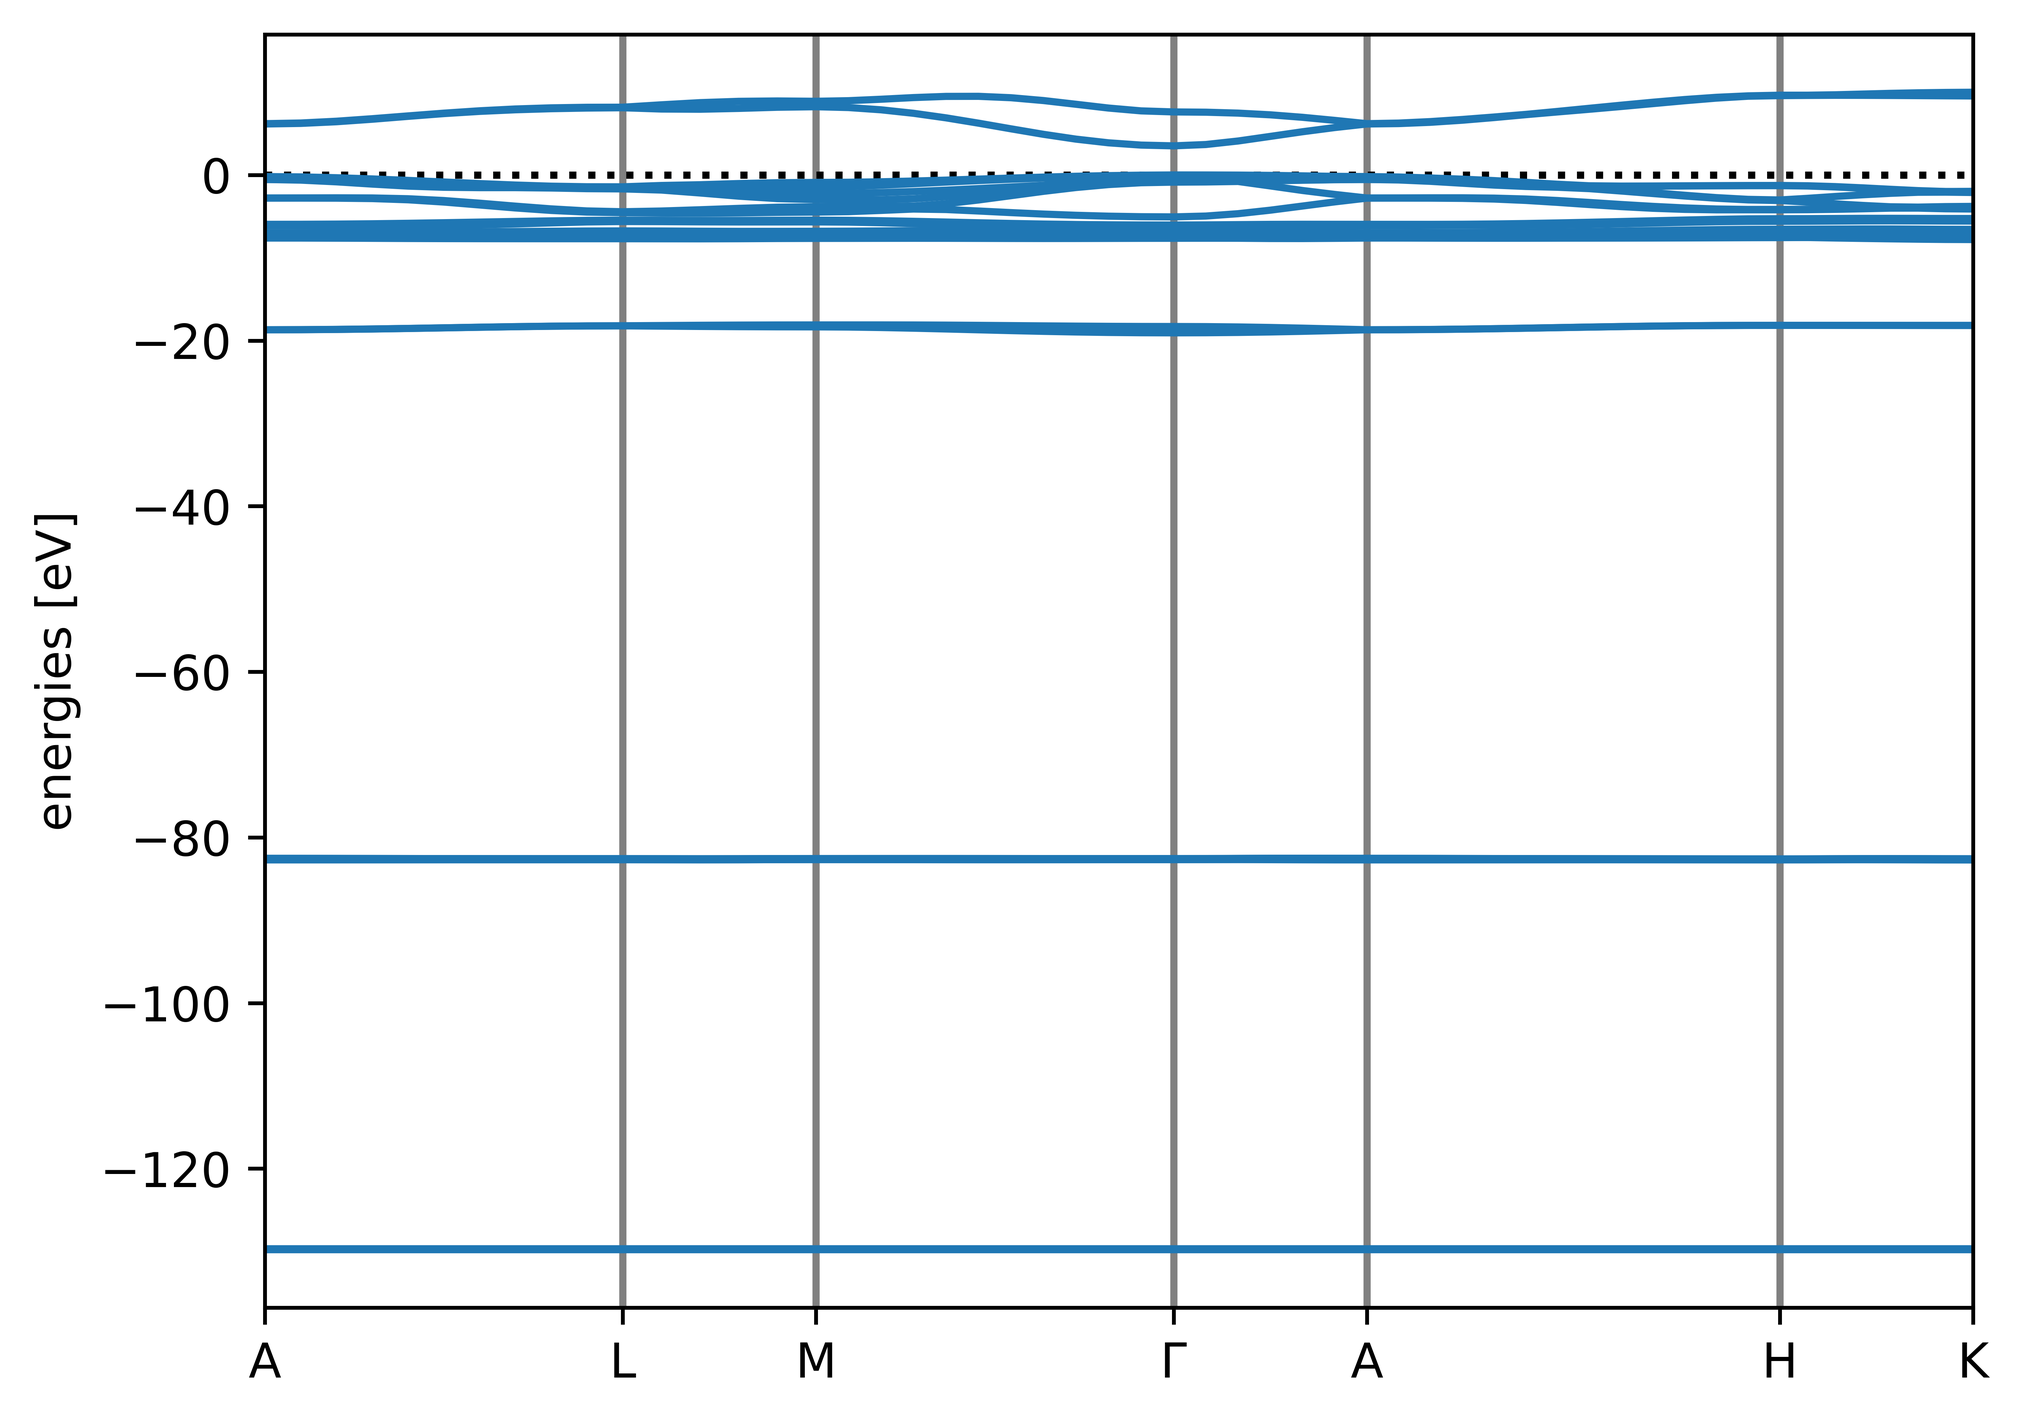
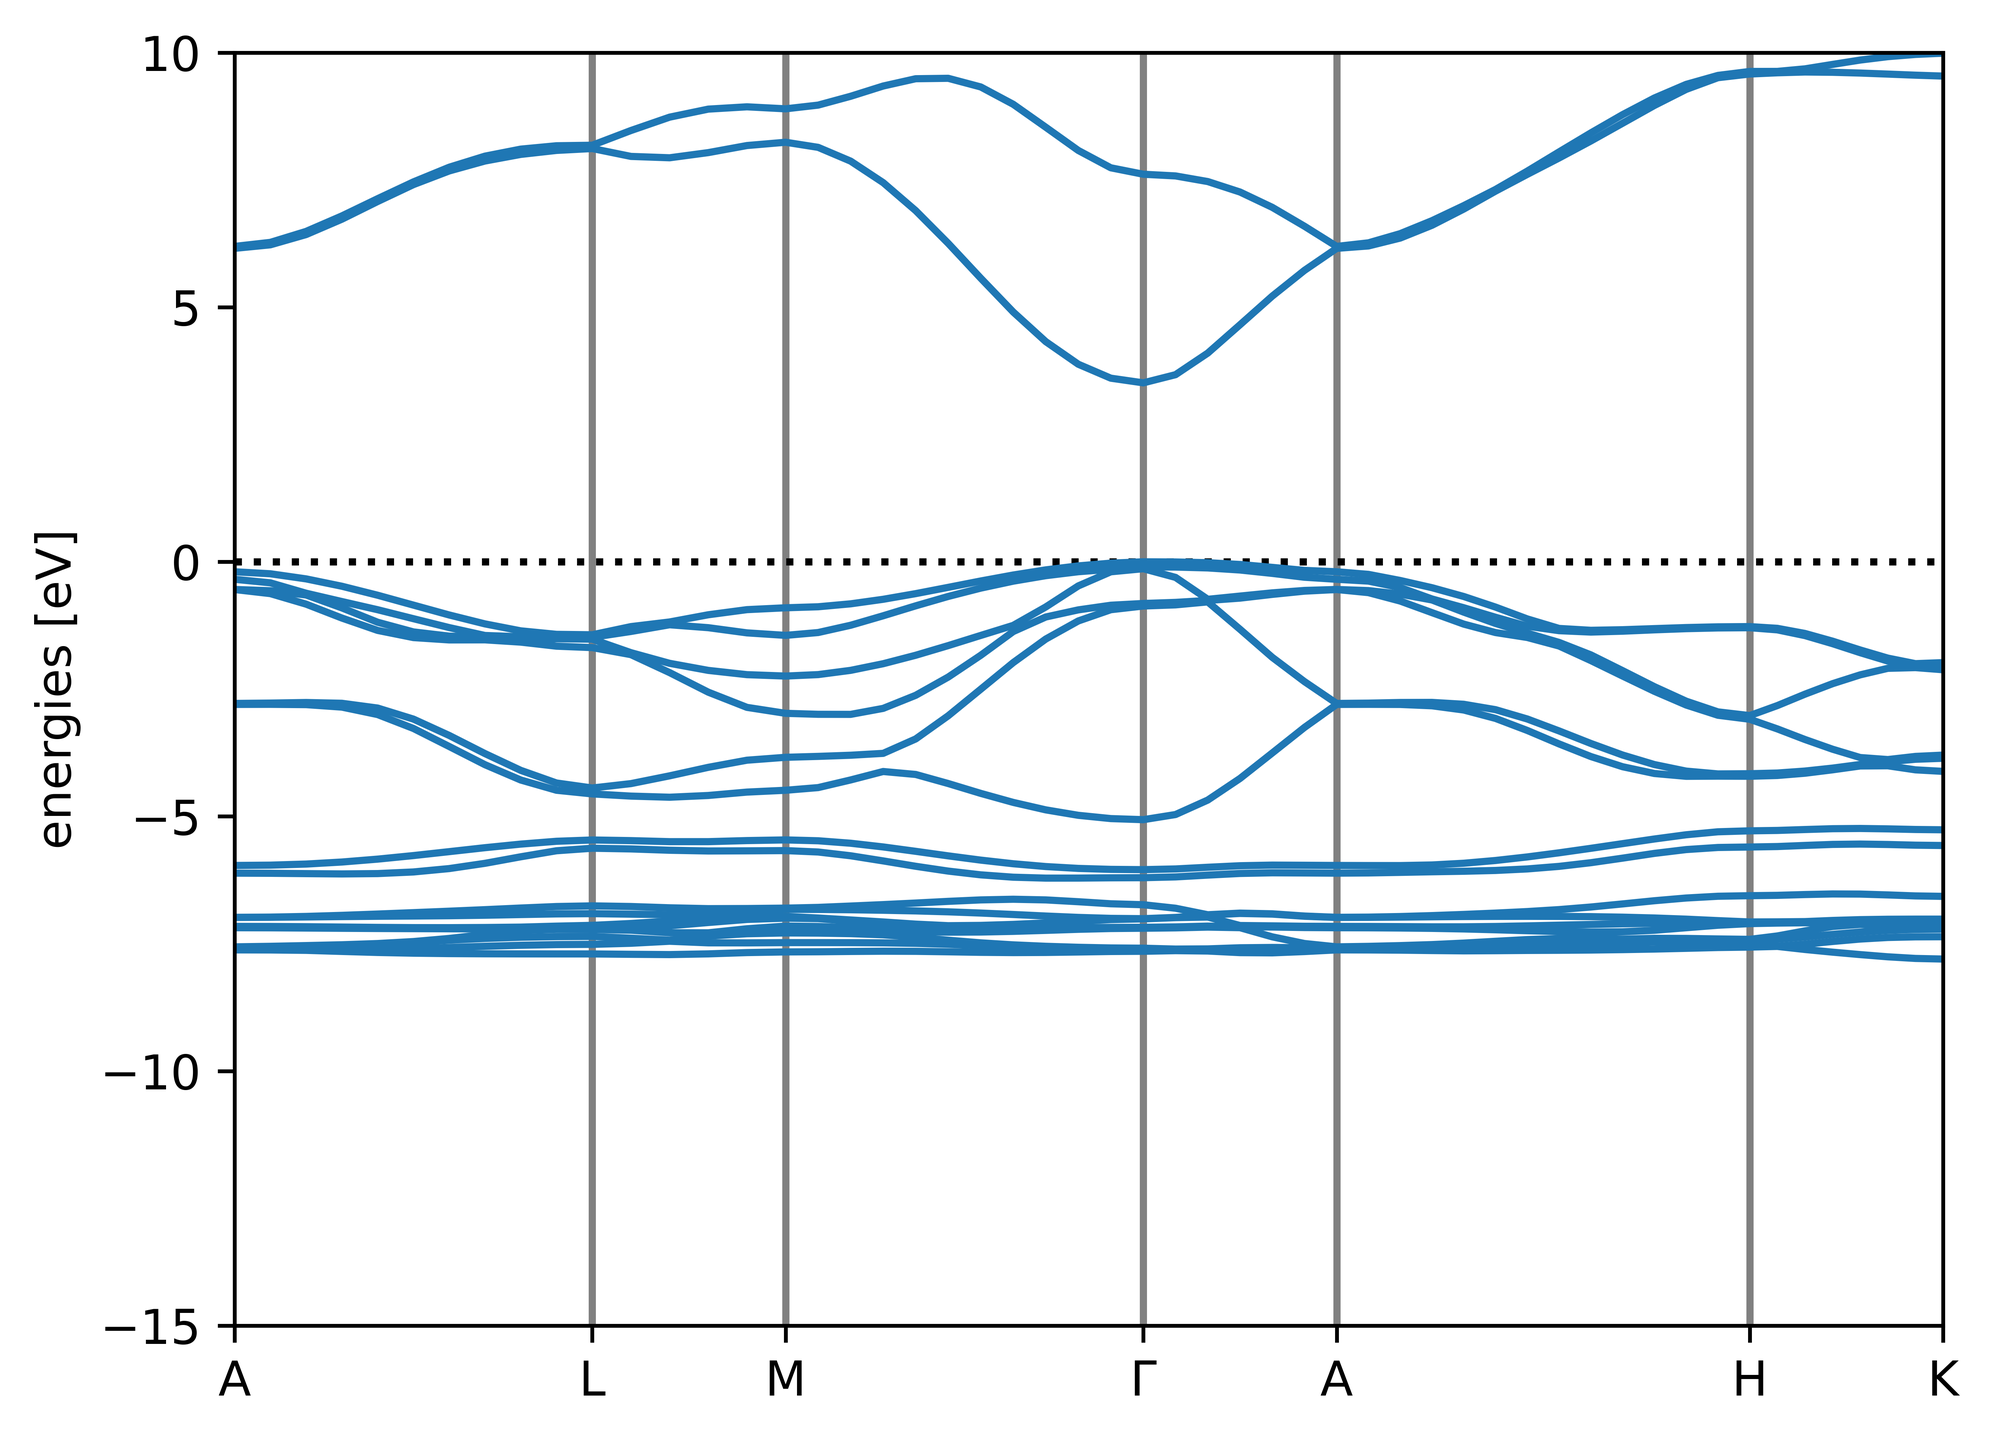
Update tutorial 6 and its docs

Changed region(s): [[0.0, 0.0, 0.9955, 0.9688], [0.0622, 0.6875, 0.1244, 0.75], [0.0622, 0.8125, 0.1244, 0.8438]]

diff --git a/tutorials/tutorial_6/plot_bands.py b/tutorials/tutorial_6/plot_bands.py
@@ -3,18 +3,24 @@ import matplotlib.pyplot as plt
 from koopmans.io import read
 
 # Load the workflow
-wf = read('cri3.kwf')
+wf = read('cri3.pkl')
 
-# The Koopmans bands were generated by the very last calculation in the workflow
-ui_calc = wf.calculations[-1]
+# The band structures were generated by the last four steps in the workflow
+procs = wf.processes[-4:]
 
-# Fetch the Koopmans bands, and shift them so that the valence band maximum is zero
-ki_bs = ui_calc.results['band structure']
-ki_bs_shifted = ki_bs.subtract_reference()
+# Loop over the four sets of band structures and shift them all so that the VBM is zero
+vbm = procs[0].outputs.band_structure._energies.max()
+band_structures = []
+for proc in procs:
+    bs = proc.outputs.band_structure
+    bs_shifted = bs.subtract_reference(vbm)
+    band_structures.append(bs_shifted)
 
-# Plot the two band structures
-ax = ki_bs_shifted.plot(spin=0, label='spin up', color='tab:red', ls="-")
-ax = ki_bs_shifted.plot(ax=ax, spin=1, label='spin down', color='tab:blue', ls="-")
+# Plot the band structures
+ax = band_structures[0].plot(label='spin up', color='tab:red', ls="-")
+ax = band_structures[1].plot(ax=ax, color='tab:red', ls="-")
+ax = band_structures[2].plot(ax=ax, label='spin down', color='tab:blue', ls="-")
+ax = band_structures[3].plot(ax=ax, color='tab:blue', ls="-")
 
 ax.legend(loc='lower right', ncol=2, bbox_to_anchor=(1, 1))
 ax.set_ylim([-5, 5])

diff --git a/docs/_static/tutorials/fetch.py b/docs/_static/tutorials/fetch.py
@@ -69,3 +69,10 @@ if __name__ == '__main__':
     extract('../../../tutorials/tutorial_5/02-predict/h2o_predict.md',
             'tutorial_5/md_excerpts/predict.md', heading='Calculate Screening Via DSCF')
     extract('../../../tutorials/tutorial_5/03-test/h2o_test.md', 'tutorial_5/md_excerpts/test.md', 45, 96)
+
+    # Tutorial 6
+    extract('../../../tutorials/tutorial_6/cri3.md', 'tutorial_6/md_excerpts/cri3_wannierize_spin_up.md', 20, 35)
+    extract('../../../tutorials/tutorial_6/cri3.md', 'tutorial_6/md_excerpts/cri3_wannierize_spin_down.md', 43, 55)
+    extract('../../../tutorials/tutorial_6/cri3.md', 'tutorial_6/md_excerpts/cri3_final.md', heading='02-ki_final')
+    extract('../../../tutorials/tutorial_6/cri3.md',
+            'tutorial_6/md_excerpts/cri3_postproc.md', heading='Unfold And Interpolate')

diff --git a/tutorials/tutorial_6/cri3.md b/tutorials/tutorial_6/cri3.md
@@ -1,0 +1,110 @@
+
+  koopmans
+  ========
+
+  *Koopmans spectral functional calculations with `Quantum ESPRESSO`*
+
+  📦 **Version:** 1.1.0  
+  🧑 **Authors:** Edward Linscott, Nicola Colonna, Riccardo De Gennaro, Ngoc Linh Nguyen, Giovanni Borghi, Andrea 
+  Ferretti, Ismaila Dabo, and Nicola Marzari  
+  📚 **Documentation:** https://koopmans-functionals.org  
+  ❓ **Support:** https://groups.google.com/g/koopmans-users  
+  🐛 **Report a bug:** https://github.com/epfl-theos/koopmans/issues/new
+
+  > [!NOTE]  
+  > Please cite the papers listed in `cri3.bib` in work involving this calculation
+
+  cri3
+  ----
+  - **Koopmans DSCF**
+    - **Initialization**
+      - **Wannierize**
+        - ✅ `01-scf` completed  
+        - ✅ `02-nscf` completed  
+        - **Wannierize spin up Block 1**
+          - ✅ `01-wannier90_preproc` completed  
+          - ✅ `02-pw2wannier90` completed  
+          - ✅ `03-wannier90` completed  
+        - **Wannierize spin up Block 2**
+          - ✅ `01-wannier90_preproc` completed  
+          - ✅ `02-pw2wannier90` completed  
+          - ✅ `03-wannier90` completed  
+        - **Wannierize spin up Block 3**
+          - ✅ `01-wannier90_preproc` completed  
+          - ✅ `02-pw2wannier90` completed  
+          - ✅ `03-wannier90` completed  
+        - **Wannierize spin up Block 4**
+          - ✅ `01-wannier90_preproc` completed  
+          - ✅ `02-pw2wannier90` completed  
+          - ✅ `03-wannier90` completed  
+        - **Wannierize spin up Block 5**
+          - ✅ `01-wannier90_preproc` completed  
+          - ✅ `02-pw2wannier90` completed  
+          - ✅ `03-wannier90` completed  
+        - **Wannierize spin down Block 1**
+          - ✅ `01-wannier90_preproc` completed  
+          - ✅ `02-pw2wannier90` completed  
+          - ✅ `03-wannier90` completed  
+        - **Wannierize spin down Block 2**
+          - ✅ `01-wannier90_preproc` completed  
+          - ✅ `02-pw2wannier90` completed  
+          - ✅ `03-wannier90` completed  
+        - **Wannierize spin down Block 3**
+          - ✅ `01-wannier90_preproc` completed  
+          - ✅ `02-pw2wannier90` completed  
+          - ✅ `03-wannier90` completed  
+        - **Wannierize spin down Block 4**
+          - ✅ `01-wannier90_preproc` completed  
+          - ✅ `02-pw2wannier90` completed  
+          - ✅ `03-wannier90` completed  
+        - **Wannierize spin down Block 5**
+          - ✅ `01-wannier90_preproc` completed  
+          - ✅ `02-pw2wannier90` completed  
+          - ✅ `03-wannier90` completed  
+        - **Wannierize spin down Block 6**
+          - ✅ `01-wannier90_preproc` completed  
+          - ✅ `02-pw2wannier90` completed  
+          - ✅ `03-wannier90` completed  
+        - ✅ `14-merge_occ_up_wannier_hamiltonian` completed  
+        - ✅ `15-merge_occ_down_wannier_hamiltonian` completed  
+        - ✅ `16-merge_emp_down_wannier_hamiltonian` completed  
+        - ✅ `17-bands` completed  
+        - ✅ `18-projwfc` completed  
+      - **Fold To Supercell**
+        - ✅ `01-convert_spin_up_block_1_to_supercell` completed  
+        - ✅ `02-convert_spin_up_block_2_to_supercell` completed  
+        - ✅ `03-convert_spin_up_block_3_to_supercell` completed  
+        - ✅ `04-convert_spin_up_block_4_to_supercell` completed  
+        - ✅ `05-convert_spin_up_block_5_to_supercell` completed  
+        - ✅ `06-convert_spin_down_block_1_to_supercell` completed  
+        - ✅ `07-convert_spin_down_block_2_to_supercell` completed  
+        - ✅ `08-convert_spin_down_block_3_to_supercell` completed  
+        - ✅ `09-convert_spin_down_block_4_to_supercell` completed  
+        - ✅ `10-convert_spin_down_block_5_to_supercell` completed  
+        - ✅ `11-convert_spin_down_block_6_to_supercell` completed  
+        - ✅ `12-merging_wavefunctions_for_occupied_spin_up` completed  
+        - ✅ `13-merging_wavefunctions_for_occupied_spin_down` completed  
+        - ✅ `14-merging_wavefunctions_for_empty_spin_down` completed  
+      - ✅ `03-dft_dummy` completed  
+      - ✅ `04-dft_init` completed  
+    Skipping calculation of screening parameters
+**α**
+
+    **spin up**
+    |    |   267 |   268 |   269 |   270 |   271 |   272 |   273 |   274 |   275 |   276 |   277 |   278 |   279 |   280 |   281 |   282 |   283 |   284 |   285 |   286 |   287 |   288 |   289 |   290 |   291 |   292 |   293 |   294 |   295 |   296 |   297 |   298 |   299 |   300 |   301 |   302 |   303 |   304 |   305 |   306 |   307 |   308 |
+    |---:|------:|------:|------:|------:|------:|------:|------:|------:|------:|------:|------:|------:|------:|------:|------:|------:|------:|------:|------:|------:|------:|------:|------:|------:|------:|------:|------:|------:|------:|------:|------:|------:|------:|------:|------:|------:|------:|------:|------:|------:|------:|------:|
+    |  0 | 0.122 | 0.122 | 0.122 | 0.122 | 0.122 | 0.122 | 0.122 | 0.122 | 0.122 | 0.122 | 0.122 | 0.122 | 0.122 | 0.122 | 0.122 | 0.122 | 0.122 | 0.122 | 0.122 | 0.122 | 0.122 | 0.122 | 0.122 | 0.122 | 0.122 | 0.122 | 0.122 | 0.122 | 0.122 | 0.122 | 0.122 | 0.122 | 0.122 | 0.122 | 0.122 | 0.122 | 0.122 | 0.122 | 0.122 | 0.122 | 0.122 | 0.122 |
+
+    **spin down**
+    |    |   225 |   226 |   227 |   228 |   229 |   230 |   231 |   232 |   233 |   234 |   235 |   236 |   237 |   238 |   239 |   240 |   241 |   242 |   243 |   244 |   245 |   246 |   247 |   248 |   249 |   250 |   251 |   252 |   253 |   254 |   255 |   256 |   257 |   258 |   259 |   260 |   261 |   262 |   263 |   264 |   265 |   266 |
+    |---:|------:|------:|------:|------:|------:|------:|------:|------:|------:|------:|------:|------:|------:|------:|------:|------:|------:|------:|------:|------:|------:|------:|------:|------:|------:|------:|------:|------:|------:|------:|------:|------:|------:|------:|------:|------:|------:|------:|------:|------:|------:|------:|
+    |  0 | 0.122 | 0.122 | 0.122 | 0.122 | 0.122 | 0.122 | 0.122 | 0.122 | 0.122 | 0.122 | 0.122 | 0.122 | 0.122 | 0.122 | 0.122 | 0.122 | 0.122 | 0.122 | 0.122 | 0.122 | 0.122 | 0.122 | 0.122 | 0.122 | 0.122 | 0.122 | 0.122 | 0.122 | 0.122 | 0.122 | 0.122 | 0.122 | 0.122 | 0.122 | 0.122 | 0.122 | 0.122 | 0.122 | 0.122 | 0.122 | 0.122 | 0.122 |
+
+    - ✅ `02-ki_final` completed  
+    - **Unfold And Interpolate**
+      - ✅ `01-unfold_and_interpolate_occ_up` completed  
+      - ✅ `02-unfold_and_interpolate_emp_up` completed  
+      - ✅ `03-unfold_and_interpolate_occ_down` completed  
+      - ✅ `04-unfold_and_interpolate_emp_down` completed  
+
+  **Workflow complete** 🎉

diff --git a/docs/tutorials/tutorial_6.rst b/docs/tutorials/tutorial_6.rst
@@ -13,11 +13,9 @@ First, let us inspect the input file:
 .. literalinclude:: ../../tutorials/tutorial_6/cri3.json
   :lines: 1-10
   :lineno-start: 1
-  :emphasize-lines: 4,6,10
+  :emphasize-lines: 4,6,8,9,10
 
-Here we tell the code to calculate the KI bandstructure using the ΔSCF supercell cell approach. We will not actually calculate the screening parameters in this tutorial (because this calculation takes a bit of time) so we have set ``calculate_alpha`` to ``False`` and we have provided a reasonable value for the screening parameters in the ``alpha_guess`` field. (This value corresponds to the inverse of the (average of the) macroscopic dielectric function, computed using DFT.)
-
-In its low-temperature phase, bulk CrI\ :sub:`3` is a ferromagnetic semiconductor with 3 unpaired *d* electrons on each of the two Cr atoms in the primitive cell. We provide this information in the input file by setting ``spin_polarized`` to ``true`` and by specifying the expected total magnetization in the ``calculator parameters`` block.
+Here we tell the code to calculate the KI bandstructure using the ΔSCF supercell cell approach. We will not actually calculate the screening parameters in this tutorial (because this calculation takes a bit of time) so we have set ``calculate_alpha`` to ``False`` and we have provided a reasonable value for the screening parameters in the ``alpha_guess`` field. (This value corresponds to the inverse of the (average of the) macroscopic dielectric function, computed using DFT.) In its low-temperature phase, bulk CrI\ :sub:`3` is a ferromagnetic semiconductor with 3 unpaired *d* electrons on each of the two Cr atoms in the primitive cell. We provide this information in the input file by setting ``spin_polarized`` to ``true`` and by specifying the expected total magnetization in the ``calculator parameters`` block.
 
 .. note::
 
@@ -39,38 +37,41 @@ Running the calculation
 
 Running ``koopmans cri3.json`` should produce an output with several sections printing information on the different steps: after the header, the Wannierization is performed for the two spin channels, one at the time:
 
-.. literalinclude:: ../../tutorials/tutorial_6/cri3.out
-  :lines: 23-25
-  :lineno-start: 23
-  :language: text
+----
+
+.. include:: ../_static/tutorials/tutorial_6/md_excerpts/cri3_wannierize_spin_up.md
+  :parser: myst_parser.sphinx_
 
 ...
 
-.. literalinclude:: ../../tutorials/tutorial_6/cri3.out
-  :lines: 38-40
-  :lineno-start: 38
-  :language: text
+.. include:: ../_static/tutorials/tutorial_6/md_excerpts/cri3_wannierize_spin_down.md
+  :parser: myst_parser.sphinx_
 
+----
 
 Having completed the Wannierization, the results are converted to a supercell for subsequent ``kcp.x`` calculations, and the DFT initialization in the supercell is run. If we had instructed the code to calculate the screening parameters, this would then be followed by an extra step where these are calculated. But since we have told the code not to compute the screening parameters, the workflow progresses immediately to the final step
 
-.. literalinclude:: ../../tutorials/tutorial_6/cri3.out
-  :lines: 90-92
-  :lineno-start: 90
-  :language: text
+----
+
+.. include:: ../_static/tutorials/tutorial_6/md_excerpts/cri3_final.md
+  :parser: myst_parser.sphinx_
+
+----
 
 where the KI Hamiltonian is constructed and diagonalized in the supercell. To get the final band structure plot on the path specified in the input file, a postprocessing step is needed to unfold the bands from the Γ-point of the supercell into the Brillouin zone of the primitive cell: 
 
-.. literalinclude:: ../../tutorials/tutorial_6/cri3.out
-  :lines: 95-100
-  :lineno-start: 95
-  :language: text
+----
+
+.. include:: ../_static/tutorials/tutorial_6/md_excerpts/cri3_postproc.md
+  :parser: myst_parser.sphinx_
+
+----
 
 
 Plotting the results
 ^^^^^^^^^^^^^^^^^^^^
 
-To plot the final KI band structure, we will load all of the information from the ``cri3.kwf`` file, as we already did for ZnO in :ref:`Tutorial 3 <tutorial_3>`. This is done in the ``plot_bands.py`` script, which generates the following figure:
+To plot the final KI band structure, we will load all of the information from the ``cri3.pkl`` file, as we already did for ZnO in :ref:`Tutorial 3 <tutorial_3>`. This is done in the ``plot_bands.py`` script, which generates the following figure:
 
 .. figure:: ../../tutorials/tutorial_6/cri3_bandstructures.png
   :width: 600

diff --git a/docs/_static/tutorials/tutorial_6/md_excerpts/cri3_wannierize_spin_up.md b/docs/_static/tutorials/tutorial_6/md_excerpts/cri3_wannierize_spin_up.md
@@ -1,0 +1,15 @@
+- **Wannierize**
+  - ✅ `01-scf` completed  
+  - ✅ `02-nscf` completed  
+  - **Wannierize spin up Block 1**
+    - ✅ `01-wannier90_preproc` completed  
+    - ✅ `02-pw2wannier90` completed  
+    - ✅ `03-wannier90` completed  
+  - **Wannierize spin up Block 2**
+    - ✅ `01-wannier90_preproc` completed  
+    - ✅ `02-pw2wannier90` completed  
+    - ✅ `03-wannier90` completed  
+  - **Wannierize spin up Block 3**
+    - ✅ `01-wannier90_preproc` completed  
+    - ✅ `02-pw2wannier90` completed  
+    - ✅ `03-wannier90` completed  

diff --git a/docs/_static/tutorials/tutorial_6/md_excerpts/cri3_wannierize_final.md b/docs/_static/tutorials/tutorial_6/md_excerpts/cri3_wannierize_final.md
@@ -1,0 +1,12 @@
+- **Wannierize spin down Block 1**
+  - ✅ `01-wannier90_preproc` completed  
+  - ✅ `02-pw2wannier90` completed  
+  - ✅ `03-wannier90` completed  
+- **Wannierize spin down Block 2**
+  - ✅ `01-wannier90_preproc` completed  
+  - ✅ `02-pw2wannier90` completed  
+  - ✅ `03-wannier90` completed  
+- **Wannierize spin down Block 3**
+  - ✅ `01-wannier90_preproc` completed  
+  - ✅ `02-pw2wannier90` completed  
+  - ✅ `03-wannier90` completed  

diff --git a/docs/_static/tutorials/tutorial_6/md_excerpts/cri3_wannierize_postproc.md b/docs/_static/tutorials/tutorial_6/md_excerpts/cri3_wannierize_postproc.md
@@ -1,0 +1,12 @@
+- **Wannierize spin down Block 1**
+  - ✅ `01-wannier90_preproc` completed  
+  - ✅ `02-pw2wannier90` completed  
+  - ✅ `03-wannier90` completed  
+- **Wannierize spin down Block 2**
+  - ✅ `01-wannier90_preproc` completed  
+  - ✅ `02-pw2wannier90` completed  
+  - ✅ `03-wannier90` completed  
+- **Wannierize spin down Block 3**
+  - ✅ `01-wannier90_preproc` completed  
+  - ✅ `02-pw2wannier90` completed  
+  - ✅ `03-wannier90` completed  

diff --git a/docs/_static/tutorials/tutorial_6/md_excerpts/cri3_wannierize_spin_down.md b/docs/_static/tutorials/tutorial_6/md_excerpts/cri3_wannierize_spin_down.md
@@ -1,0 +1,12 @@
+- **Wannierize spin down Block 1**
+  - ✅ `01-wannier90_preproc` completed  
+  - ✅ `02-pw2wannier90` completed  
+  - ✅ `03-wannier90` completed  
+- **Wannierize spin down Block 2**
+  - ✅ `01-wannier90_preproc` completed  
+  - ✅ `02-pw2wannier90` completed  
+  - ✅ `03-wannier90` completed  
+- **Wannierize spin down Block 3**
+  - ✅ `01-wannier90_preproc` completed  
+  - ✅ `02-pw2wannier90` completed  
+  - ✅ `03-wannier90` completed  

diff --git a/docs/_static/tutorials/tutorial_6/md_excerpts/cri3_postproc.md b/docs/_static/tutorials/tutorial_6/md_excerpts/cri3_postproc.md
@@ -1,0 +1,5 @@
+- **Unfold And Interpolate**
+  - ✅ `01-unfold_and_interpolate_occ_up` completed  
+  - ✅ `02-unfold_and_interpolate_emp_up` completed  
+  - ✅ `03-unfold_and_interpolate_occ_down` completed  
+  - ✅ `04-unfold_and_interpolate_emp_down` completed  

diff --git a/docs/_static/tutorials/tutorial_6/md_excerpts/cri3_final.md b/docs/_static/tutorials/tutorial_6/md_excerpts/cri3_final.md
@@ -1,0 +1,1 @@
+- ✅ `02-ki_final` completed  
